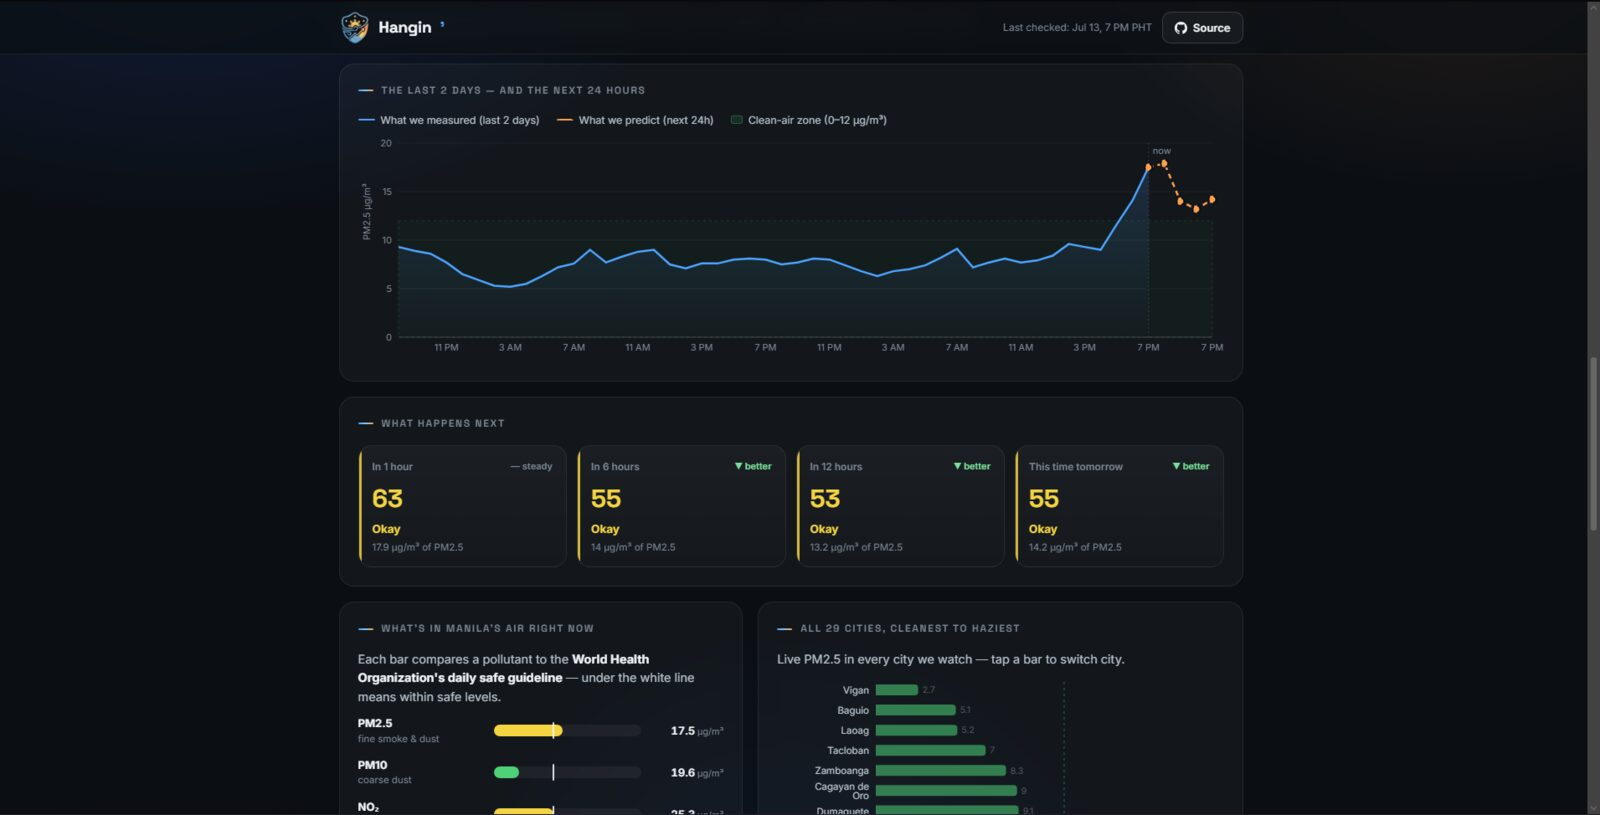
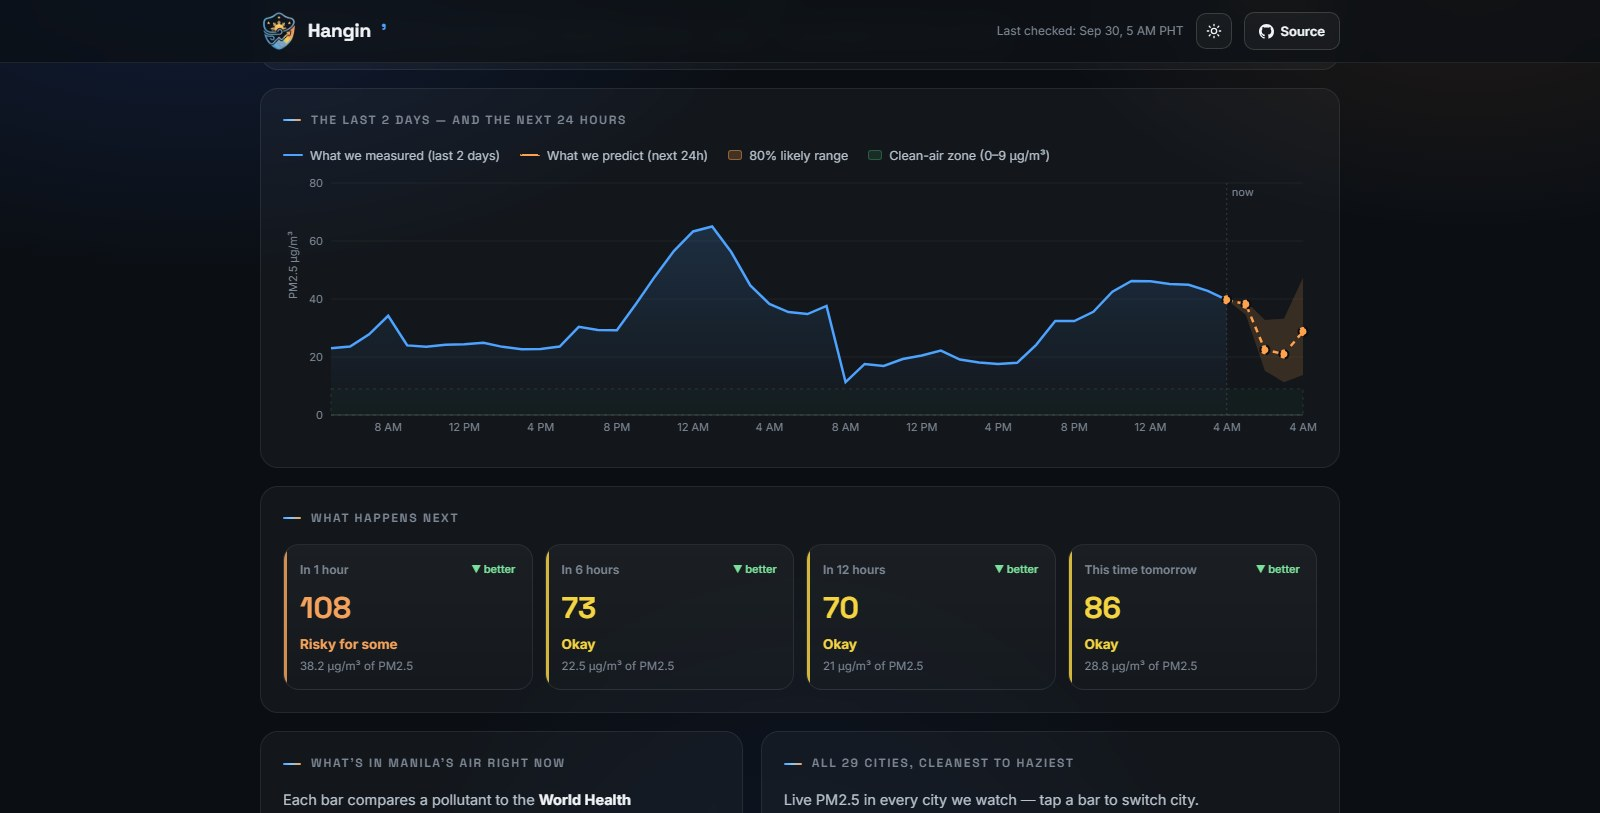
Hangin card: full-year test numbers, case study link, light screenshots
The old metric (+23% at 12h) came from a holdout that covered mostly easy
dry-season months. The card now quotes the full unseen-year test: 26.3 /
34.0 / 41.0 / 13.6% less error than naive at 1 / 6 / 12 / 24h, 3 seeds.
Adds the case study link, a fourth screenshot and a matching light set.

diff --git a/src/data.js b/src/data.js
@@ -504,19 +504,23 @@ export const projects = [
     title: "Hangin' - PH Air Quality Forecaster",
     groups: ["ML & Forecasting", "Web & Apps"],
     description:
-      "PM2.5 forecasting dashboard for 29 Philippine cities, 1-24 hours ahead, with plain-language health advice instead of raw pollutant numbers. Most PH air trackers only show the current reading; Hangin' predicts where it's heading and shows its own accuracy honestly, backtested against a naive persistence baseline across a 60/20/20 chronological split. A pooled HistGradientBoostingRegressor (one model per horizon) trained on 3 years of hourly Open-Meteo history, tuned with a 160-trial randomized search, and served through a full-bleed Leaflet map with a live land-clipped PM2.5 heat overlay, geolocation, and a Simple/Expert toggle so the same accuracy numbers read for a recruiter or a commuter.",
+      "PM2.5 forecasting dashboard for 29 Philippine cities, 1-24 hours ahead, with plain-language health advice instead of raw pollutant numbers. Most PH air trackers only show the current reading; Hangin' predicts where it's heading and shows its own accuracy honestly, tested on a full year of air it never saw (43,685 hours per horizon, 3 seeds) against a naive \"same as now\" guess. A pooled HistGradientBoostingRegressor (one model per horizon) trained on hourly Open-Meteo history since 2022, tuned with a 160-trial randomized search, retrained monthly behind a gate that only ships a better model, and served through a full-bleed Leaflet map with a live land-clipped PM2.5 heat overlay, geolocation, and a Simple/Expert toggle so the same accuracy numbers read for a recruiter or a commuter.",
     tags: ["Python", "scikit-learn", "Pandas", "Time-Series", "Open-Meteo", "React", "Leaflet"],
-    metric: "+23% MAE vs naive baseline @12h",
+    metric: "41% less error than naive at 12h, over a full unseen year",
     category: "ML Forecasting · Full-Stack",
     date: "2026",
     image: "/projects/hangin-1.jpg",
-    images: ["/projects/hangin-1.jpg", "/projects/hangin-2.jpg", "/projects/hangin-3.jpg"],
+    images: ["/projects/hangin-1.jpg", "/projects/hangin-2.jpg", "/projects/hangin-3.jpg", "/projects/hangin-4.jpg"],
+    imagesLight: ["/projects/hangin-light-1.jpg", "/projects/hangin-light-2.jpg", "/projects/hangin-light-3.jpg", "/projects/hangin-light-4.jpg"],
     link: "https://github.com/Zeref538/hangin",
-    demo: "https://hangin-zeref.vercel.app",
+    live: "https://hangin-zeref.vercel.app",
+    demo: "https://hangin-zeref.vercel.app/case-study.html",
+    demoLabel: "case study",
     highlights: [
-      "Pooled multi-horizon HistGradientBoostingRegressor, 160-trial tuned, chronological 60/20/20 split - no leakage",
-      "Beats a naive persistence baseline by 16-23% MAE at the 6-24h horizons that matter",
-      "Live PM2.5 heat overlay clipped to PH landmass, geolocation, hourly GitHub Actions refresh",
+      "Full-year walk-forward test, 3 seeds: 26.3% / 34.0% / 41.0% / 13.6% less error than naive at 1 / 6 / 12 / 24h",
+      "Calibrated 80% likely range that caught the real value 81-83% of the time; found the 2024 model had gone stale and added a gated monthly retrain",
+      "Reported a pre-registered 24h attempt that missed its own 2% bar (1.8%) and was not shipped; a Manila model trained on real OpenAQ sensors beat every simple guess by 1.3-16.9%",
+      "Live PM2.5 heat overlay clipped to PH landmass, light and dark themes, hourly GitHub Actions refresh",
     ],
   },
   {
